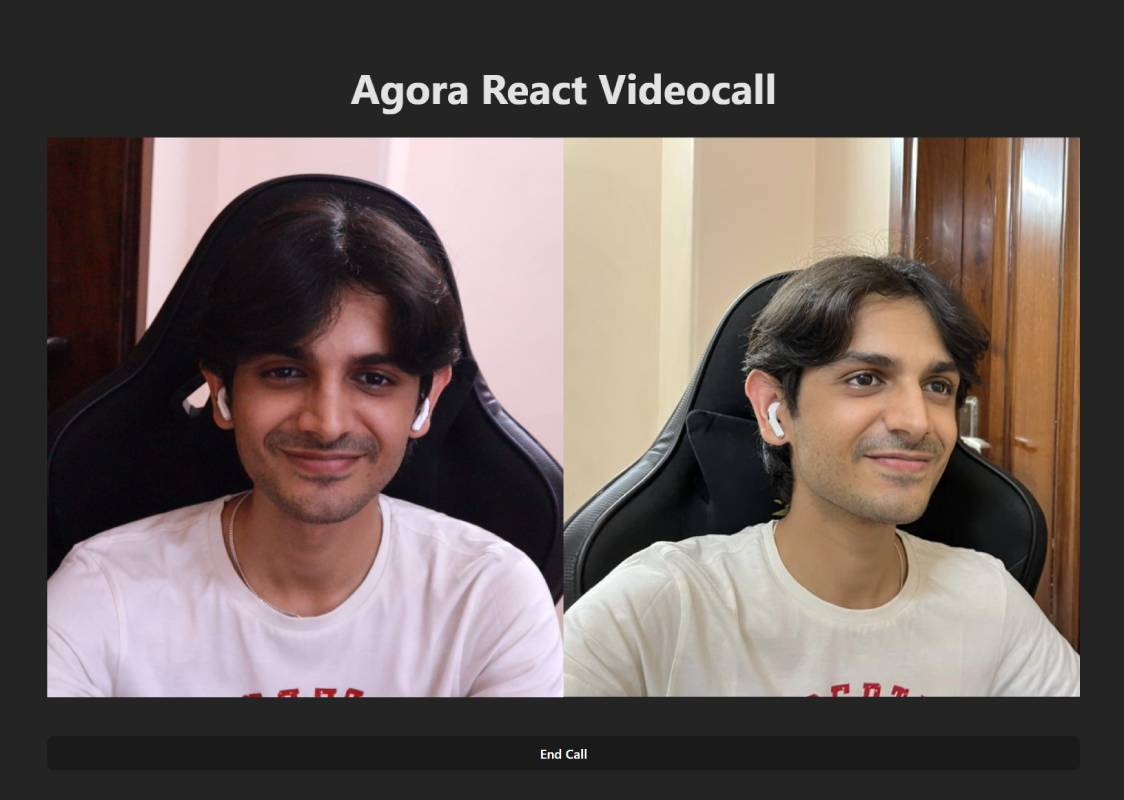
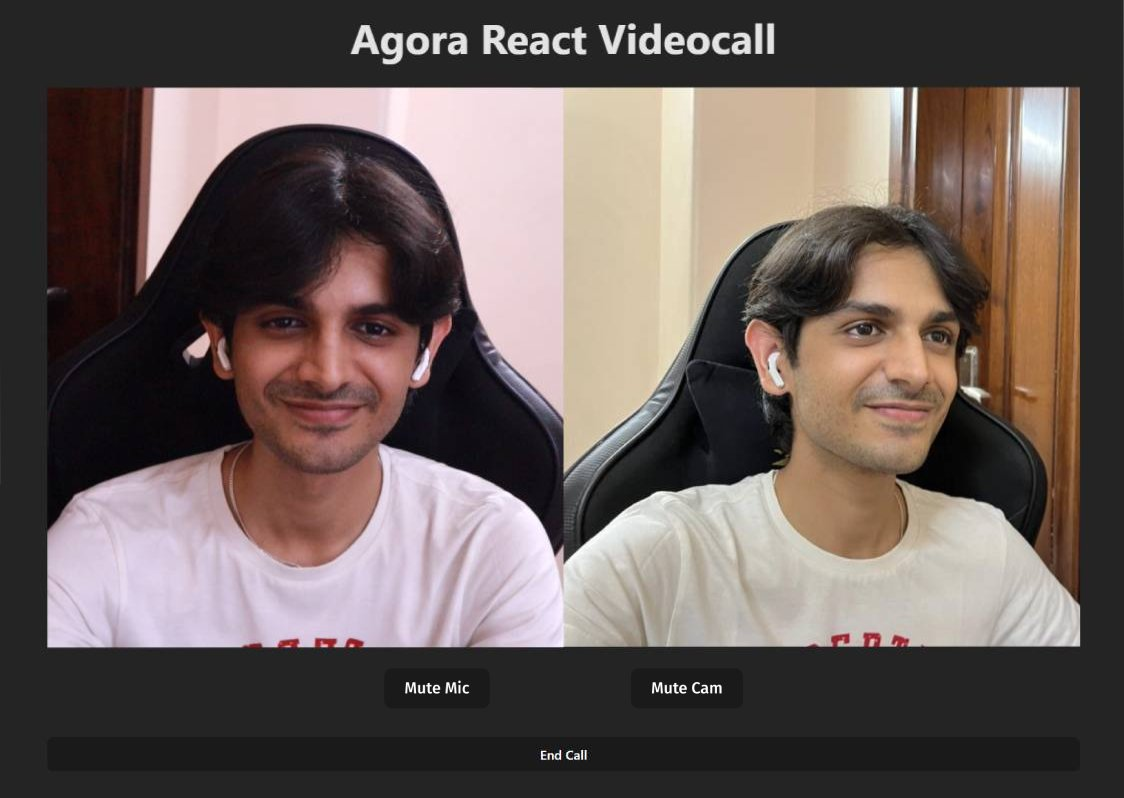
chore: styling, readme

diff --git a/src/App.tsx b/src/App.tsx
@@ -99,7 +99,7 @@ const Controls = (props: {
 }) => {
   const { localMicrophoneTrack, localCameraTrack } = props;
   return (
-    <div style={{ display: 'flex', flexDirection: 'row', alignSelf: 'center' }}>
+    <div style={{ display: 'flex', flexDirection: 'row', alignSelf: 'center', width: '50%', justifyContent: 'space-evenly' }}>
       <button onClick={() => void localMicrophoneTrack.setMuted(!localMicrophoneTrack.muted)}>Mute Mic</button>
       <button onClick={() => void localCameraTrack.setMuted(!localCameraTrack.muted)}>Mute Cam</button>
     </div>
